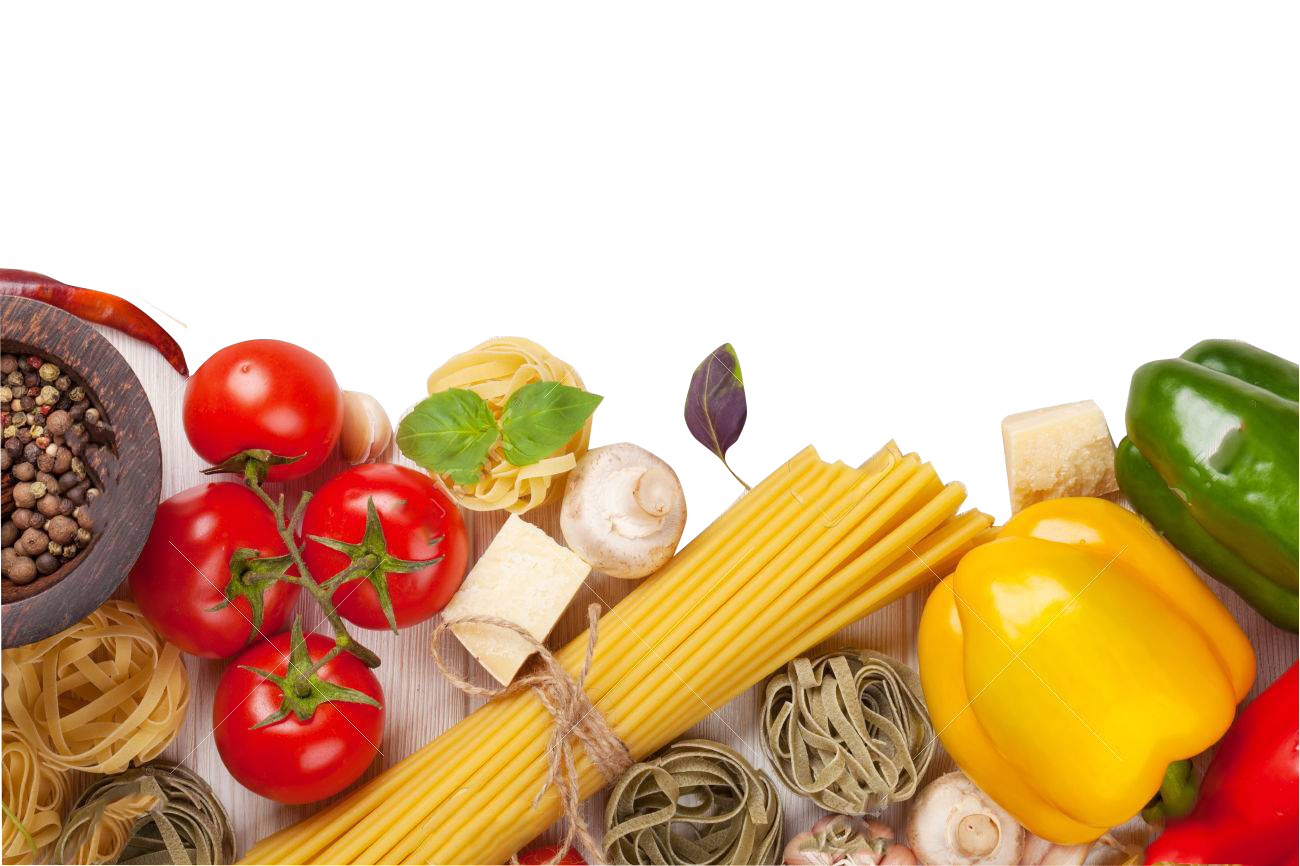
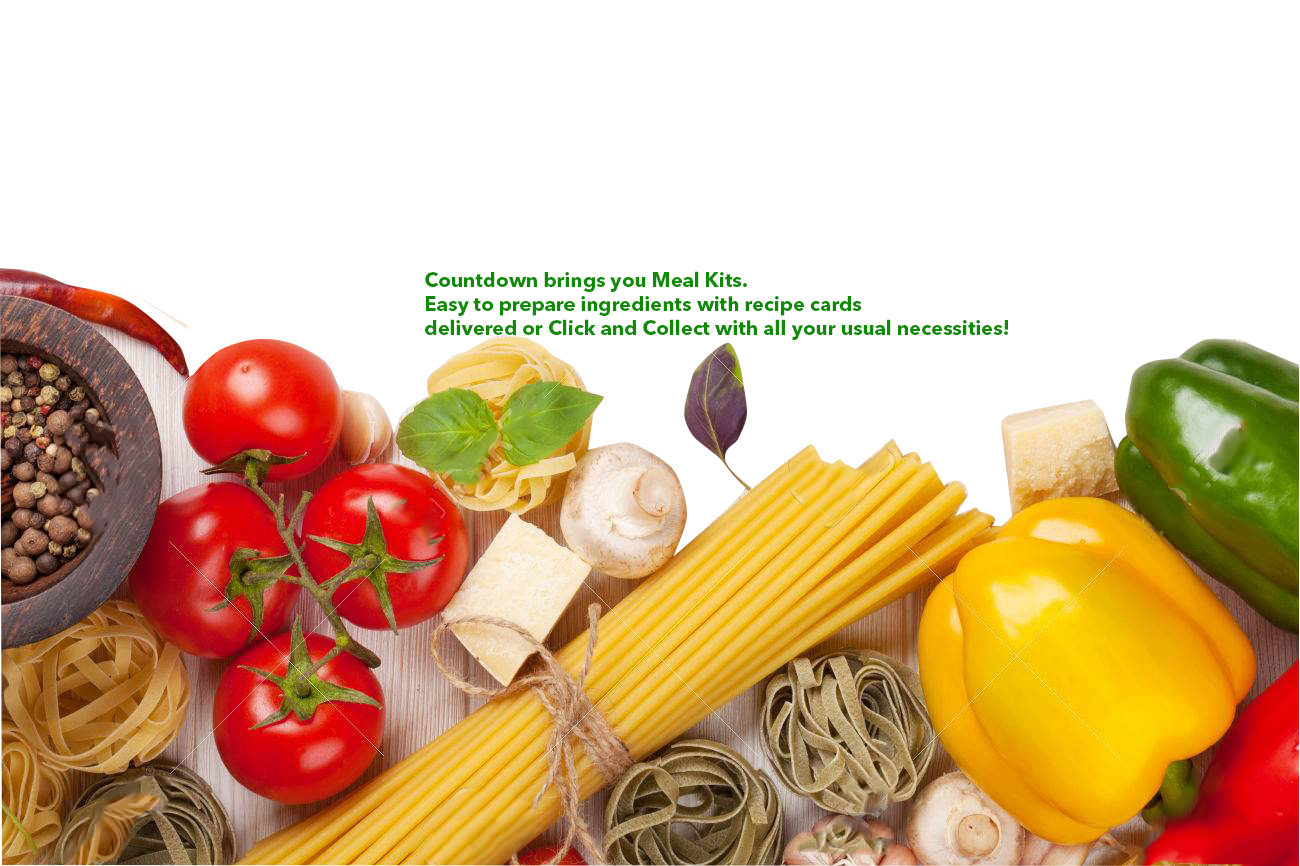
save even more changes

Changed region(s): [[0.3077, 0.3118, 0.7692, 0.4053]]

diff --git a/OurEats.html b/OurEats.html
@@ -92,6 +92,30 @@
   // Get the element with id="defaultOpen" and click on it
   document.getElementById("defaultOpen").click();
   </script>
+  <button class="open-button" onclick="openForm()">Need help?</button>
+
+  <div class="chat-popup" id="myForm">
+    <form action="/action_page.php" class="form-container">
+      <h1>Chat to us!</h1>
+
+      <label for="msg"><b>Hi, how can we help today?</b></label>
+      <textarea placeholder="Type message.." name="msg" required></textarea>
+
+      <button type="submit" class="btn">Send</button>
+      <button type="button" class="btn cancel" onclick="closeForm()">Close</button>
+    </form>
+  </div>
+
+  <script>
+  function openForm() {
+    document.getElementById("myForm").style.display = "block";
+  }
+
+  function closeForm() {
+    document.getElementById("myForm").style.display = "none";
+  }
+  </script>
+
   <footer>
   <ul>
     <h3 class="pink">Contact</h3>

diff --git a/Recipes.html b/Recipes.html
@@ -87,6 +87,30 @@
   // Get the element with id="defaultOpen" and click on it
   document.getElementById("defaultOpen").click();
   </script>
+  <button class="open-button" onclick="openForm()">Need help?</button>
+
+  <div class="chat-popup" id="myForm">
+    <form action="/action_page.php" class="form-container">
+      <h1>Chat to us!</h1>
+
+      <label for="msg"><b>Hi, how can we help today?</b></label>
+      <textarea placeholder="Type message.." name="msg" required></textarea>
+
+      <button type="submit" class="btn">Send</button>
+      <button type="button" class="btn cancel" onclick="closeForm()">Close</button>
+    </form>
+  </div>
+
+  <script>
+  function openForm() {
+    document.getElementById("myForm").style.display = "block";
+  }
+
+  function closeForm() {
+    document.getElementById("myForm").style.display = "none";
+  }
+  </script>
+
   <footer>
   <ul>
     <h3 class="pink">Contact</h3>

diff --git a/FreshEats.css b/FreshEats.css
@@ -47,7 +47,25 @@ a:hover {
 color:#00ff00;
 text-decoration : none;
 }
+.paragraph {
+  position: -webkit-sticky;
+  position: sticky;
+  font-family: helvetica;
+  font-weight:bold;
+  color: white;
+  font-size: 16px;
+  background-color: #e0e0d1;
 
+  animation-name: bar;
+  animation-duration: 3s;
+  animation-iteration-count: 20;
+  text-align: center;
+}
+@keyframes bar {
+  from {background-color: white;}
+  to {background-color:   #666666;}
+
+}
 /* Style tab links */
 .tablink {
   background-color: #00ff00;

diff --git a/index.html b/index.html
@@ -28,7 +28,8 @@ body {
    box-shadow: 0 9px #006622;
 }
 .button4 {border-radius: 20px;
-padding: 20px 100px }
+padding: 100px 100px
+float: left; }
 .button:hover {background-color: #006622}
 
 .button:active {
@@ -42,7 +43,6 @@ padding: 20px 100px }
 
 </style>
 
-<body>
 
 
 
@@ -66,8 +66,11 @@ padding: 20px 100px }
   <br>
   <br>
   <br>
-<br>
-<br>
+  <br>
+  <br>
+
+
+
 
 
 
